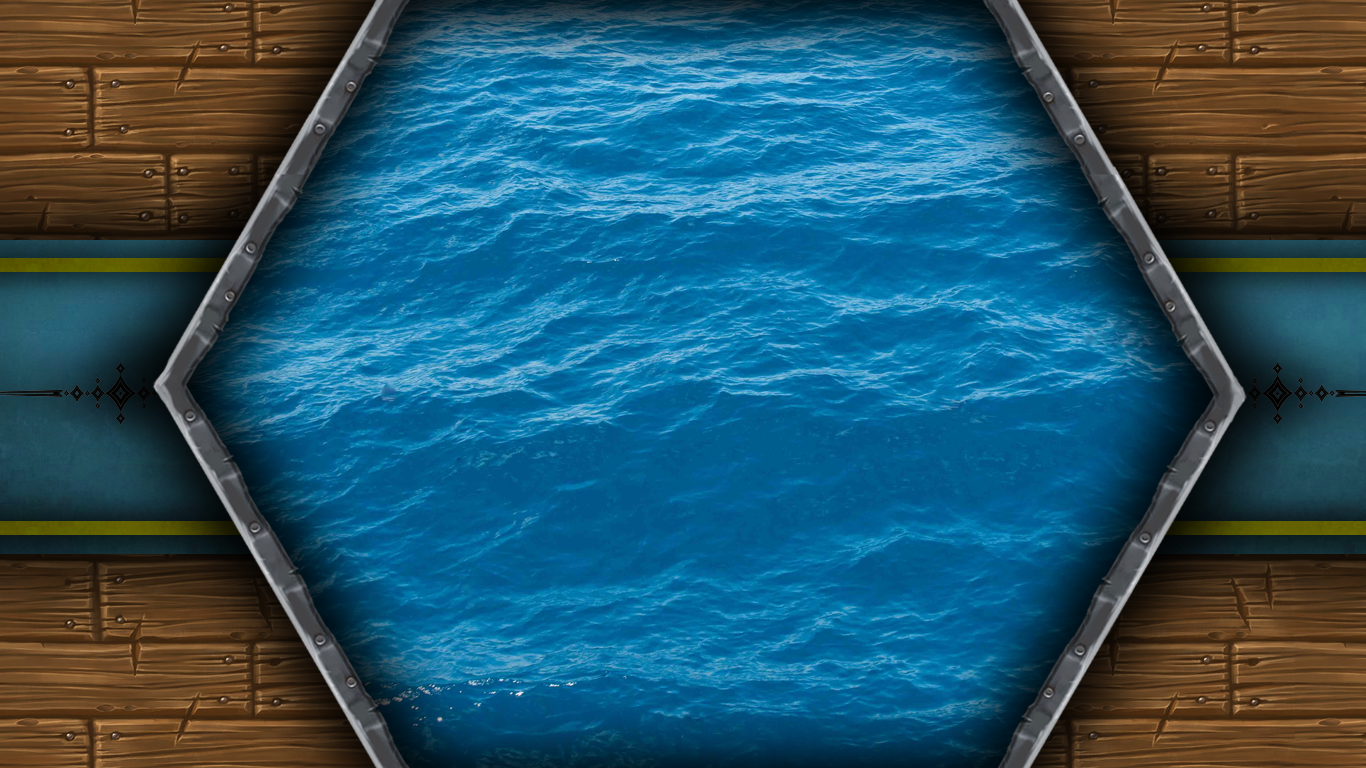
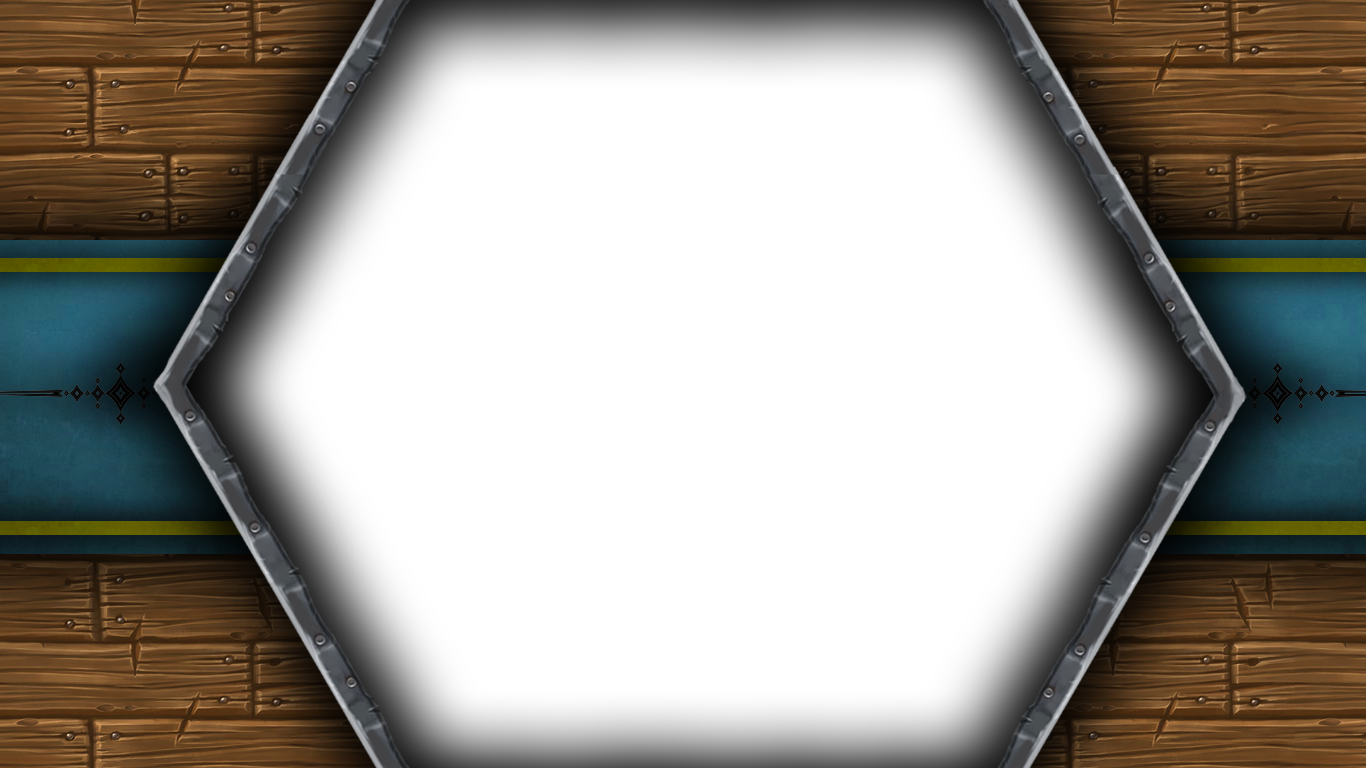
Added: Map resources: background

diff --git a/KvC-Client/src/main/java/nl/groep4/kvc/client/util/SceneUtil.java b/KvC-Client/src/main/java/nl/groep4/kvc/client/util/SceneUtil.java
@@ -24,6 +24,7 @@ public class SceneUtil {
     private static Node lobbyBack;
     private static Node cornerShield;
     private static Node board;
+    private static Node boardBackground;
 
     public static Node getMenuBackground() {
 	if (background == null) {
@@ -72,6 +73,13 @@ public class SceneUtil {
 	    board = new ImageView("img/game/board.png");
 	}
 	return board;
+    }
+
+    public static Node getBoardBackground() {
+	if (boardBackground == null) {
+	    boardBackground = new ImageView("img/game/board_background.gif");
+	}
+	return boardBackground;
     }
 
     public static void fadeIn(List<Node> elements) {

diff --git a/KvC-Client/src/main/java/nl/groep4/kvc/client/view/scene/SceneMap.java b/KvC-Client/src/main/java/nl/groep4/kvc/client/view/scene/SceneMap.java
@@ -13,10 +13,10 @@ public class SceneMap implements SceneHolder {
 	/* Build layer for the design */
 	Pane boardPane = new Pane();
 
-	boardPane.getChildren().addAll(SceneUtil.getBoard());
+	boardPane.getChildren().addAll(SceneUtil.getBoardBackground(), SceneUtil.getBoard());
 
 	Scene scene = new Scene(boardPane);
-	SceneUtil.fadeIn(SceneUtil.getBoard());
+	SceneUtil.fadeIn(SceneUtil.getBoardBackground(), SceneUtil.getBoard());
 	return scene;
     }
 
